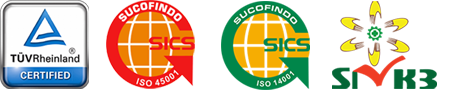
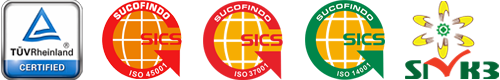
update project and cert in home page

diff --git a/index.html b/index.html
@@ -967,45 +967,73 @@
 
       <div class="partner-section-two">
         <div class="partner-slider-two">
+          <div class="item"><img src="images/logo/p-1.png" alt="" /></div>
+          <div class="item"><img src="images/logo/p-2.png" alt="" /></div>
+          <div class="item"><img src="images/logo/p-3.png" alt="" /></div>
+          <div class="item"><img src="images/logo/p-4.png" alt="" /></div>
+          <div class="item"><img src="images/logo/p-5.png" alt="" /></div>
           <div class="item"><img src="images/logo/p-6.png" alt="" /></div>
           <div class="item"><img src="images/logo/p-7.png" alt="" /></div>
           <div class="item"><img src="images/logo/p-8.png" alt="" /></div>
-          <div class="item"><img src="images/logo/p-9.png" alt="" /></div>
-          <div class="item"><img src="images/logo/p-10.png" alt="" /></div>
-          <div class="item"><img src="images/logo/p-11.png" alt="" /></div>
-          <div class="item"><img src="images/logo/p-12.png" alt="" /></div>
-          <div class="item"><img src="images/logo/p-13.png" alt="" /></div>
         </div>
       </div>
       <!-- /.partner-section-two -->
 
       <!--
-
 			=====================================================
 				Partner Section Two
 			=====================================================
 			-->
       <div class="partner-section-two">
         <div class="partner-slider-two">
+          <div class="item"><img src="images/logo/p-9.png" alt="" /></div>
+          <div class="item"><img src="images/logo/p-10.png" alt="" /></div>
+          <div class="item"><img src="images/logo/p-11.png" alt="" /></div>
+          <div class="item"><img src="images/logo/p-12.png" alt="" /></div>
+          <div class="item"><img src="images/logo/p-13.png" alt="" /></div>
           <div class="item"><img src="images/logo/p-14.png" alt="" /></div>
           <div class="item"><img src="images/logo/p-15.png" alt="" /></div>
           <div class="item"><img src="images/logo/p-16.png" alt="" /></div>
-          <div class="item"><img src="images/logo/p-17.png" alt="" /></div>
-          <div class="item"><img src="images/logo/p-18.png" alt="" /></div>
-          <div class="item"><img src="images/logo/p-19.png" alt="" /></div>
-          <div class="item"><img src="images/logo/p-20.png" alt="" /></div>
-          <div class="item"><img src="images/logo/p-21.png" alt="" /></div>
+          <div class="item"><img src="images/logo/p-36.png" alt="" /></div>
         </div>
       </div>
       <!-- /.partner-section-two -->
-
       <!--
 			=====================================================
 				Partner Section Two
 			=====================================================
 			-->
       <div class="partner-section-two">
-        <div class="partner-slider-two"></div>
+        <div class="partner-slider-two">
+          <div class="item"><img src="images/logo/p-17.png" alt="" /></div>
+          <div class="item"><img src="images/logo/p-18.png" alt="" /></div>
+          <div class="item"><img src="images/logo/p-19.png" alt="" /></div>
+          <div class="item"><img src="images/logo/p-20.png" alt="" /></div>
+          <div class="item"><img src="images/logo/p-21.png" alt="" /></div>
+          <div class="item"><img src="images/logo/p-22.png" alt="" /></div>
+          <div class="item"><img src="images/logo/p-23.png" alt="" /></div>
+          <div class="item"><img src="images/logo/p-24.png" alt="" /></div>
+          <div class="item"><img src="images/logo/p-35.png" alt="" /></div>
+        </div>
+      </div>
+      <!-- /.partner-section-two -->
+      <!--
+			=====================================================
+				Partner Section Two
+			=====================================================
+			-->
+      <div class="partner-section-two">
+        <div class="partner-slider-two">
+          <div class="item"><img src="images/logo/p-25.png" alt="" /></div>
+          <div class="item"><img src="images/logo/p-26.png" alt="" /></div>
+          <div class="item"><img src="images/logo/p-27.png" alt="" /></div>
+          <div class="item"><img src="images/logo/p-28.png" alt="" /></div>
+          <div class="item"><img src="images/logo/p-29.png" alt="" /></div>
+          <div class="item"><img src="images/logo/p-30.png" alt="" /></div>
+          <div class="item"><img src="images/logo/p-31.png" alt="" /></div>
+          <div class="item"><img src="images/logo/p-32.png" alt="" /></div>
+          <div class="item"><img src="images/logo/p-34.png" alt="" /></div>
+        </div>
       </div>
       <!-- /.partner-section-two -->
 
@@ -1014,7 +1042,7 @@
 				Call Back Form One
 			=====================================================
 			-->
-      <div class="call-back-form-one section-spacing">
+      <div class="call-back-form-one section-spacing mt-5">
         <div class="container">
           <div class="theme-title-one text-center">
             <h2 class="title">Request a Call Back</h2>

diff --git a/project-solar-power-plant.html b/project-solar-power-plant.html
@@ -475,7 +475,7 @@
                     alt=""
                   />
                   <div class="srvc-name">
-                    <h5><a>Astra 2000</a></h5>
+                    <h5><a>Auto 2000 Permata Hijau</a></h5>
                     <span>Ongrid 402 Kwp - Jakarta</span>
                   </div>
                   <!-- /.srvc-name -->
